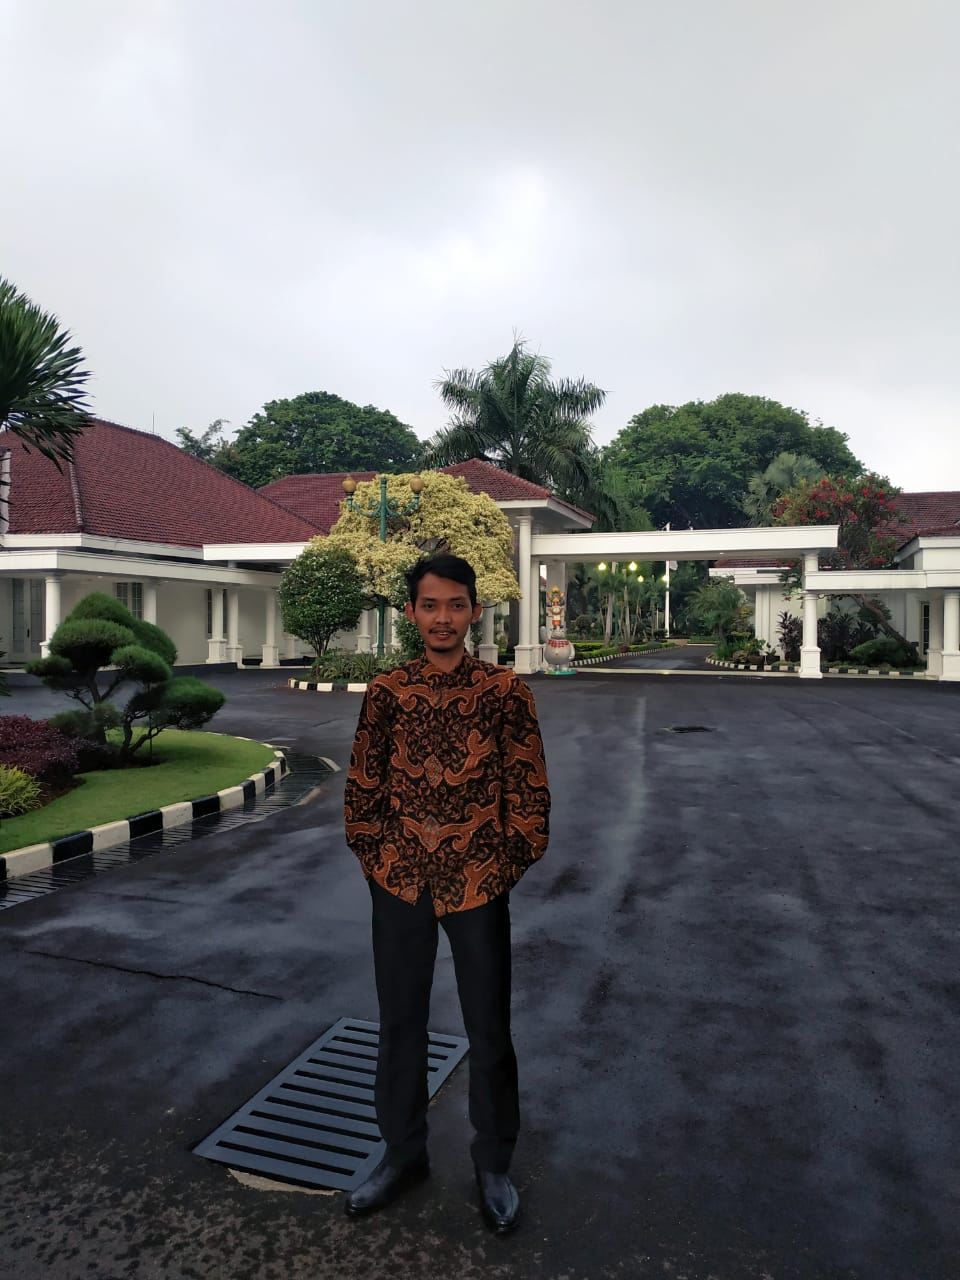
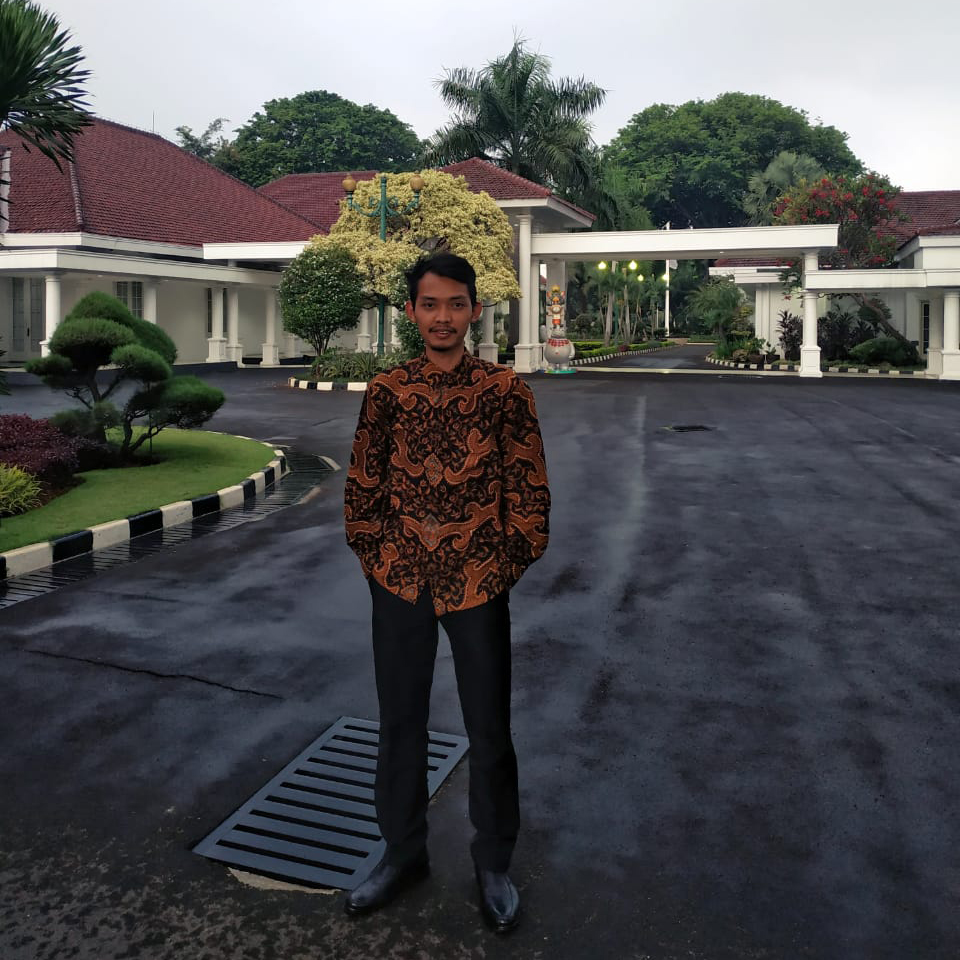
croping img dan body profile

diff --git a/index.html b/index.html
@@ -42,11 +42,56 @@
           </div>
         </div>
       </div>
-  
       <div class="body-profile">
-          <!-- silahkan buat body disini ya -->
-                  
-      </div>
+        <div class="profil">
+            <img src="img/sirojm.jpeg" alt="" class="avatar">
+            <div class="txt-profil">
+                <h3>Muhammad Sirojuddin</h3>
+                <p>Hallo, saya muhammad sirojuddin berdomisili di pekalongan, sehari-hari saya bekerja di IAIN Pekalongan sebagai Staf IT. Background penddikan saya S1 Desain Grafis. Hobi saya adalah fotografi</p>
+            </div>
+        </div>
+        <svg class="waves" xmlns="http://www.w3.org/2000/svg" viewBox="0 0 1440 320"><path fill="#264653" fill-opacity="1" d="M0,224L30,192C60,160,120,96,180,101.3C240,107,300,181,360,213.3C420,245,480,235,540,197.3C600,160,660,96,720,106.7C780,117,840,203,900,245.3C960,288,1020,288,1080,256C1140,224,1200,160,1260,122.7C1320,85,1380,75,1410,69.3L1440,64L1440,0L1410,0C1380,0,1320,0,1260,0C1200,0,1140,0,1080,0C1020,0,960,0,900,0C840,0,780,0,720,0C660,0,600,0,540,0C480,0,420,0,360,0C300,0,240,0,180,0C120,0,60,0,30,0L0,0Z"></path></svg>
+    </div>
+    <div class="body-profile-2">
+        <div class="profil-2">
+            <img src="img\fazarbahari.jpeg" alt="" class="avatar">
+            <div class="txt-profil">
+                <h3>Fazar Bahari</h3>
+                <p>Hallo, saya Fazar Bahari berdomisili di ---------, sehari-hari saya bekerja di ---------- sebagai Staf IT. Background penddikan saya S1 Informatika. Hobi saya adalah adventure</p>
+            </div>
+        </div>
+        <svg xmlns="http://www.w3.org/2000/svg" viewBox="0 0 1440 320"><path fill="lightcyan" fill-opacity="1" d="M0,160L30,165.3C60,171,120,181,180,202.7C240,224,300,256,360,272C420,288,480,288,540,261.3C600,235,660,181,720,144C780,107,840,85,900,96C960,107,1020,149,1080,181.3C1140,213,1200,235,1260,234.7C1320,235,1380,213,1410,202.7L1440,192L1440,0L1410,0C1380,0,1320,0,1260,0C1200,0,1140,0,1080,0C1020,0,960,0,900,0C840,0,780,0,720,0C660,0,600,0,540,0C480,0,420,0,360,0C300,0,240,0,180,0C120,0,60,0,30,0L0,0Z"></path></svg>
+    </div>
+    <div class="body-profile">
+        <div class="profil">
+            <img src="img\hennimahdalena.jpeg" alt="" class="avatar">
+            <div class="txt-profil">
+                <h3>Henni Mahdalena</h3>
+                <p>Hallo, saya Henni Mahdalena berdomisili di Semarang, sehari-hari saya bekerja sebagai Freelance Project Telekomunikasi. Background penddikan saya S1 Teknik Elektro. Hobi saya adalah membaca</p>
+            </div>
+        </div>
+        <svg class="waves" xmlns="http://www.w3.org/2000/svg" viewBox="0 0 1440 320"><path fill="#264653" fill-opacity="1" d="M0,224L30,192C60,160,120,96,180,101.3C240,107,300,181,360,213.3C420,245,480,235,540,197.3C600,160,660,96,720,106.7C780,117,840,203,900,245.3C960,288,1020,288,1080,256C1140,224,1200,160,1260,122.7C1320,85,1380,75,1410,69.3L1440,64L1440,0L1410,0C1380,0,1320,0,1260,0C1200,0,1140,0,1080,0C1020,0,960,0,900,0C840,0,780,0,720,0C660,0,600,0,540,0C480,0,420,0,360,0C300,0,240,0,180,0C120,0,60,0,30,0L0,0Z"></path></svg>
+    </div>
+    <div class="body-profile-2">
+        <div class="profil-2">
+            <img src="img\sopianamir.jpeg" alt="" class="avatar">
+            <div class="txt-profil">
+                <h3>Sopian Amir</h3>
+                <p>Hallo, saya Sopian Amir berdomisili di ---------, sehari-hari saya bekerja di --------- sebagai Staf Engineer. Background penddikan saya S1 Informatika. Hobi saya adalah Running & Adventure</p>
+            </div>
+        </div>
+        <svg xmlns="http://www.w3.org/2000/svg" viewBox="0 0 1440 320"><path fill="lightcyan" fill-opacity="1" d="M0,160L30,165.3C60,171,120,181,180,202.7C240,224,300,256,360,272C420,288,480,288,540,261.3C600,235,660,181,720,144C780,107,840,85,900,96C960,107,1020,149,1080,181.3C1140,213,1200,235,1260,234.7C1320,235,1380,213,1410,202.7L1440,192L1440,0L1410,0C1380,0,1320,0,1260,0C1200,0,1140,0,1080,0C1020,0,960,0,900,0C840,0,780,0,720,0C660,0,600,0,540,0C480,0,420,0,360,0C300,0,240,0,180,0C120,0,60,0,30,0L0,0Z"></path></svg>
+    </div>
+    <div class="body-profile">
+        <div class="profil">
+            <img src="img\kayamwicaksono.jpeg" alt="" class="avatar">
+            <div class="txt-profil">
+                <h3>Kayam Wicaksono</h3>
+                <p>Hallo, saya Kayam Wicaksono berdomisili di ---------, sehari-hari saya bekerja di --------- sebagai Staf IT. Background penddikan saya S1 Informatika. Hobi saya adalah Hiking</p>
+            </div>
+        </div>
+        <svg class="waves" xmlns="http://www.w3.org/2000/svg" viewBox="0 0 1440 320"><path fill="#264653" fill-opacity="1" d="M0,224L30,192C60,160,120,96,180,101.3C240,107,300,181,360,213.3C420,245,480,235,540,197.3C600,160,660,96,720,106.7C780,117,840,203,900,245.3C960,288,1020,288,1080,256C1140,224,1200,160,1260,122.7C1320,85,1380,75,1410,69.3L1440,64L1440,0L1410,0C1380,0,1320,0,1260,0C1200,0,1140,0,1080,0C1020,0,960,0,900,0C840,0,780,0,720,0C660,0,600,0,540,0C480,0,420,0,360,0C300,0,240,0,180,0C120,0,60,0,30,0L0,0Z"></path></svg>
+    </div>
   
       <footer>
           <!-- silahkan buat footer disini ya -->

diff --git a/css/style.css b/css/style.css
@@ -103,6 +103,58 @@ header {
   .btn:hover {
     opacity: 1;
   }
+
+  .profil{
+    padding: 100px 50px 20px 50px;
+    background-color: #264653;
+    display: flex;
+    justify-content: space-around;
+    align-items: center;
+    color:lightcyan;
+    text-align: right;
+}
+
+.profil-2{
+    padding: 100px 50px 20px 50px;
+    background-color:lightcyan;
+    display: flex;
+    flex-direction: row-reverse;
+    justify-content: space-around;
+    align-items: center;
+}
+
+.avatar {
+    vertical-align: middle;
+    width: 300px;
+    height: 300px;
+    border-radius: 50%;
+    box-shadow: 0 0 10px black;
+  }
+
+.txt-profil{
+    font-size: 30px;
+    width: 50%;
+}
+
+.txt-profil h3{
+    margin-bottom: 1rem;
+    font-family: 'Poppins';
+    font: weight 400px;;
+}
+
+.txt-profil p{
+    font-family: 'Poppins';
+   font-weight: lighter; 
+   font-size: 20px;
+}
+
+.body-profile{
+    background-color: lightcyan;
+}
+
+.body-profile-2{
+    background-color: #264653;
+}
   
   
 
